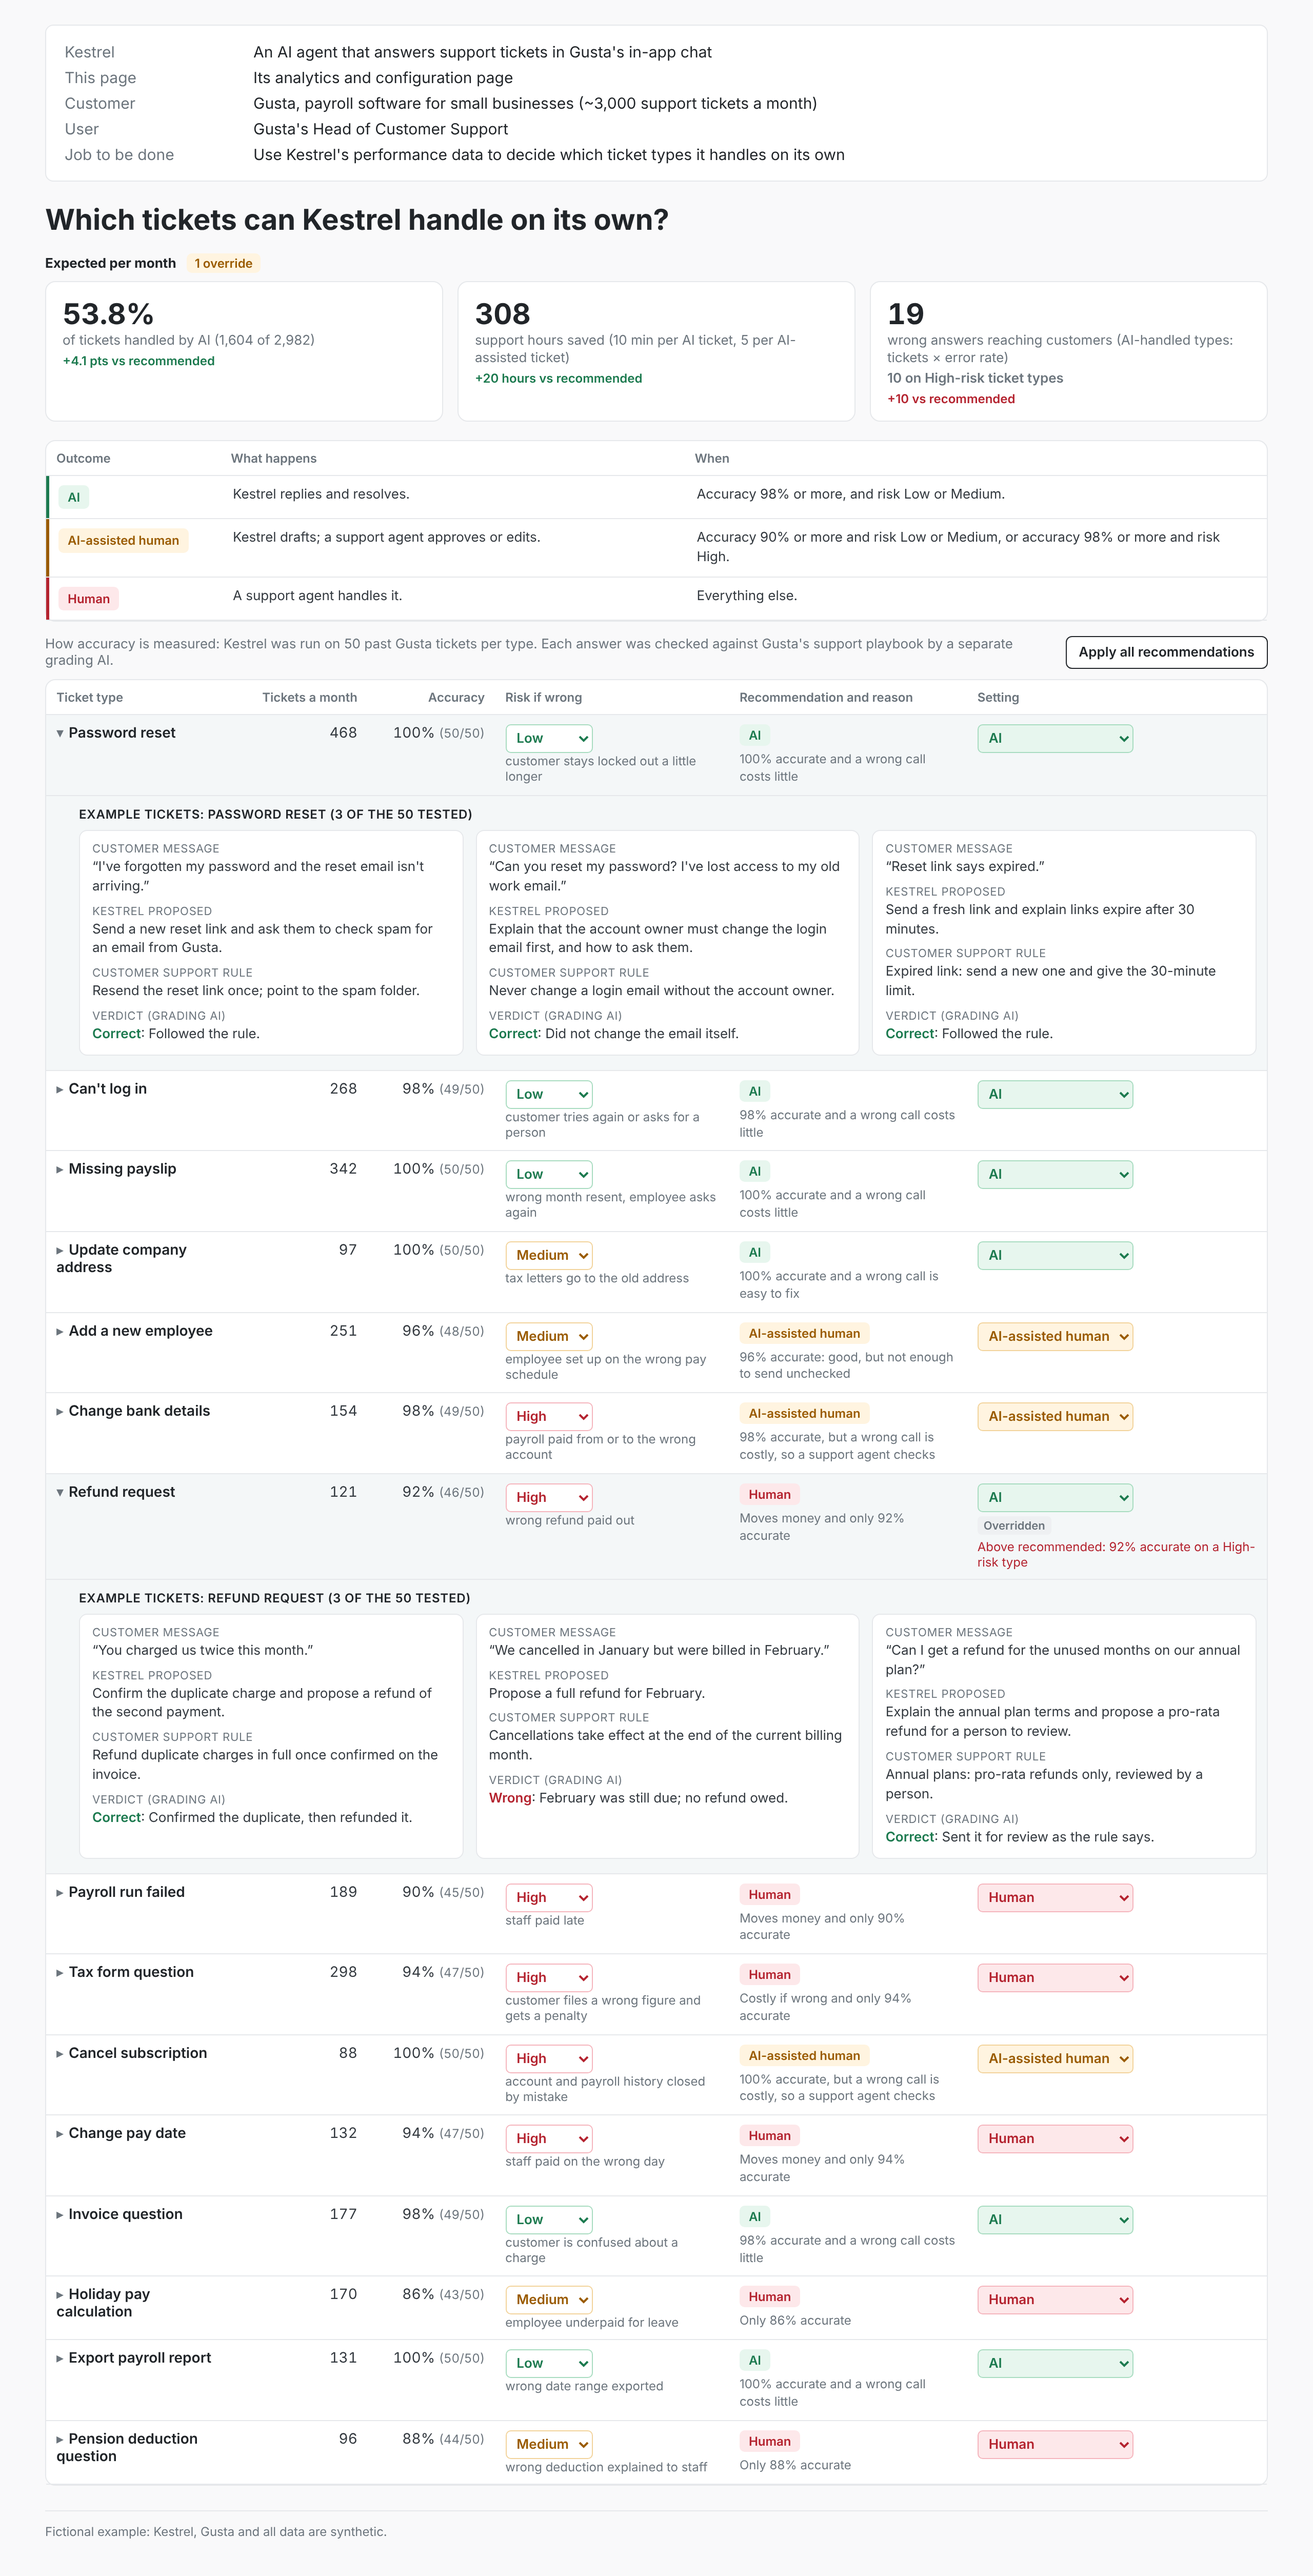
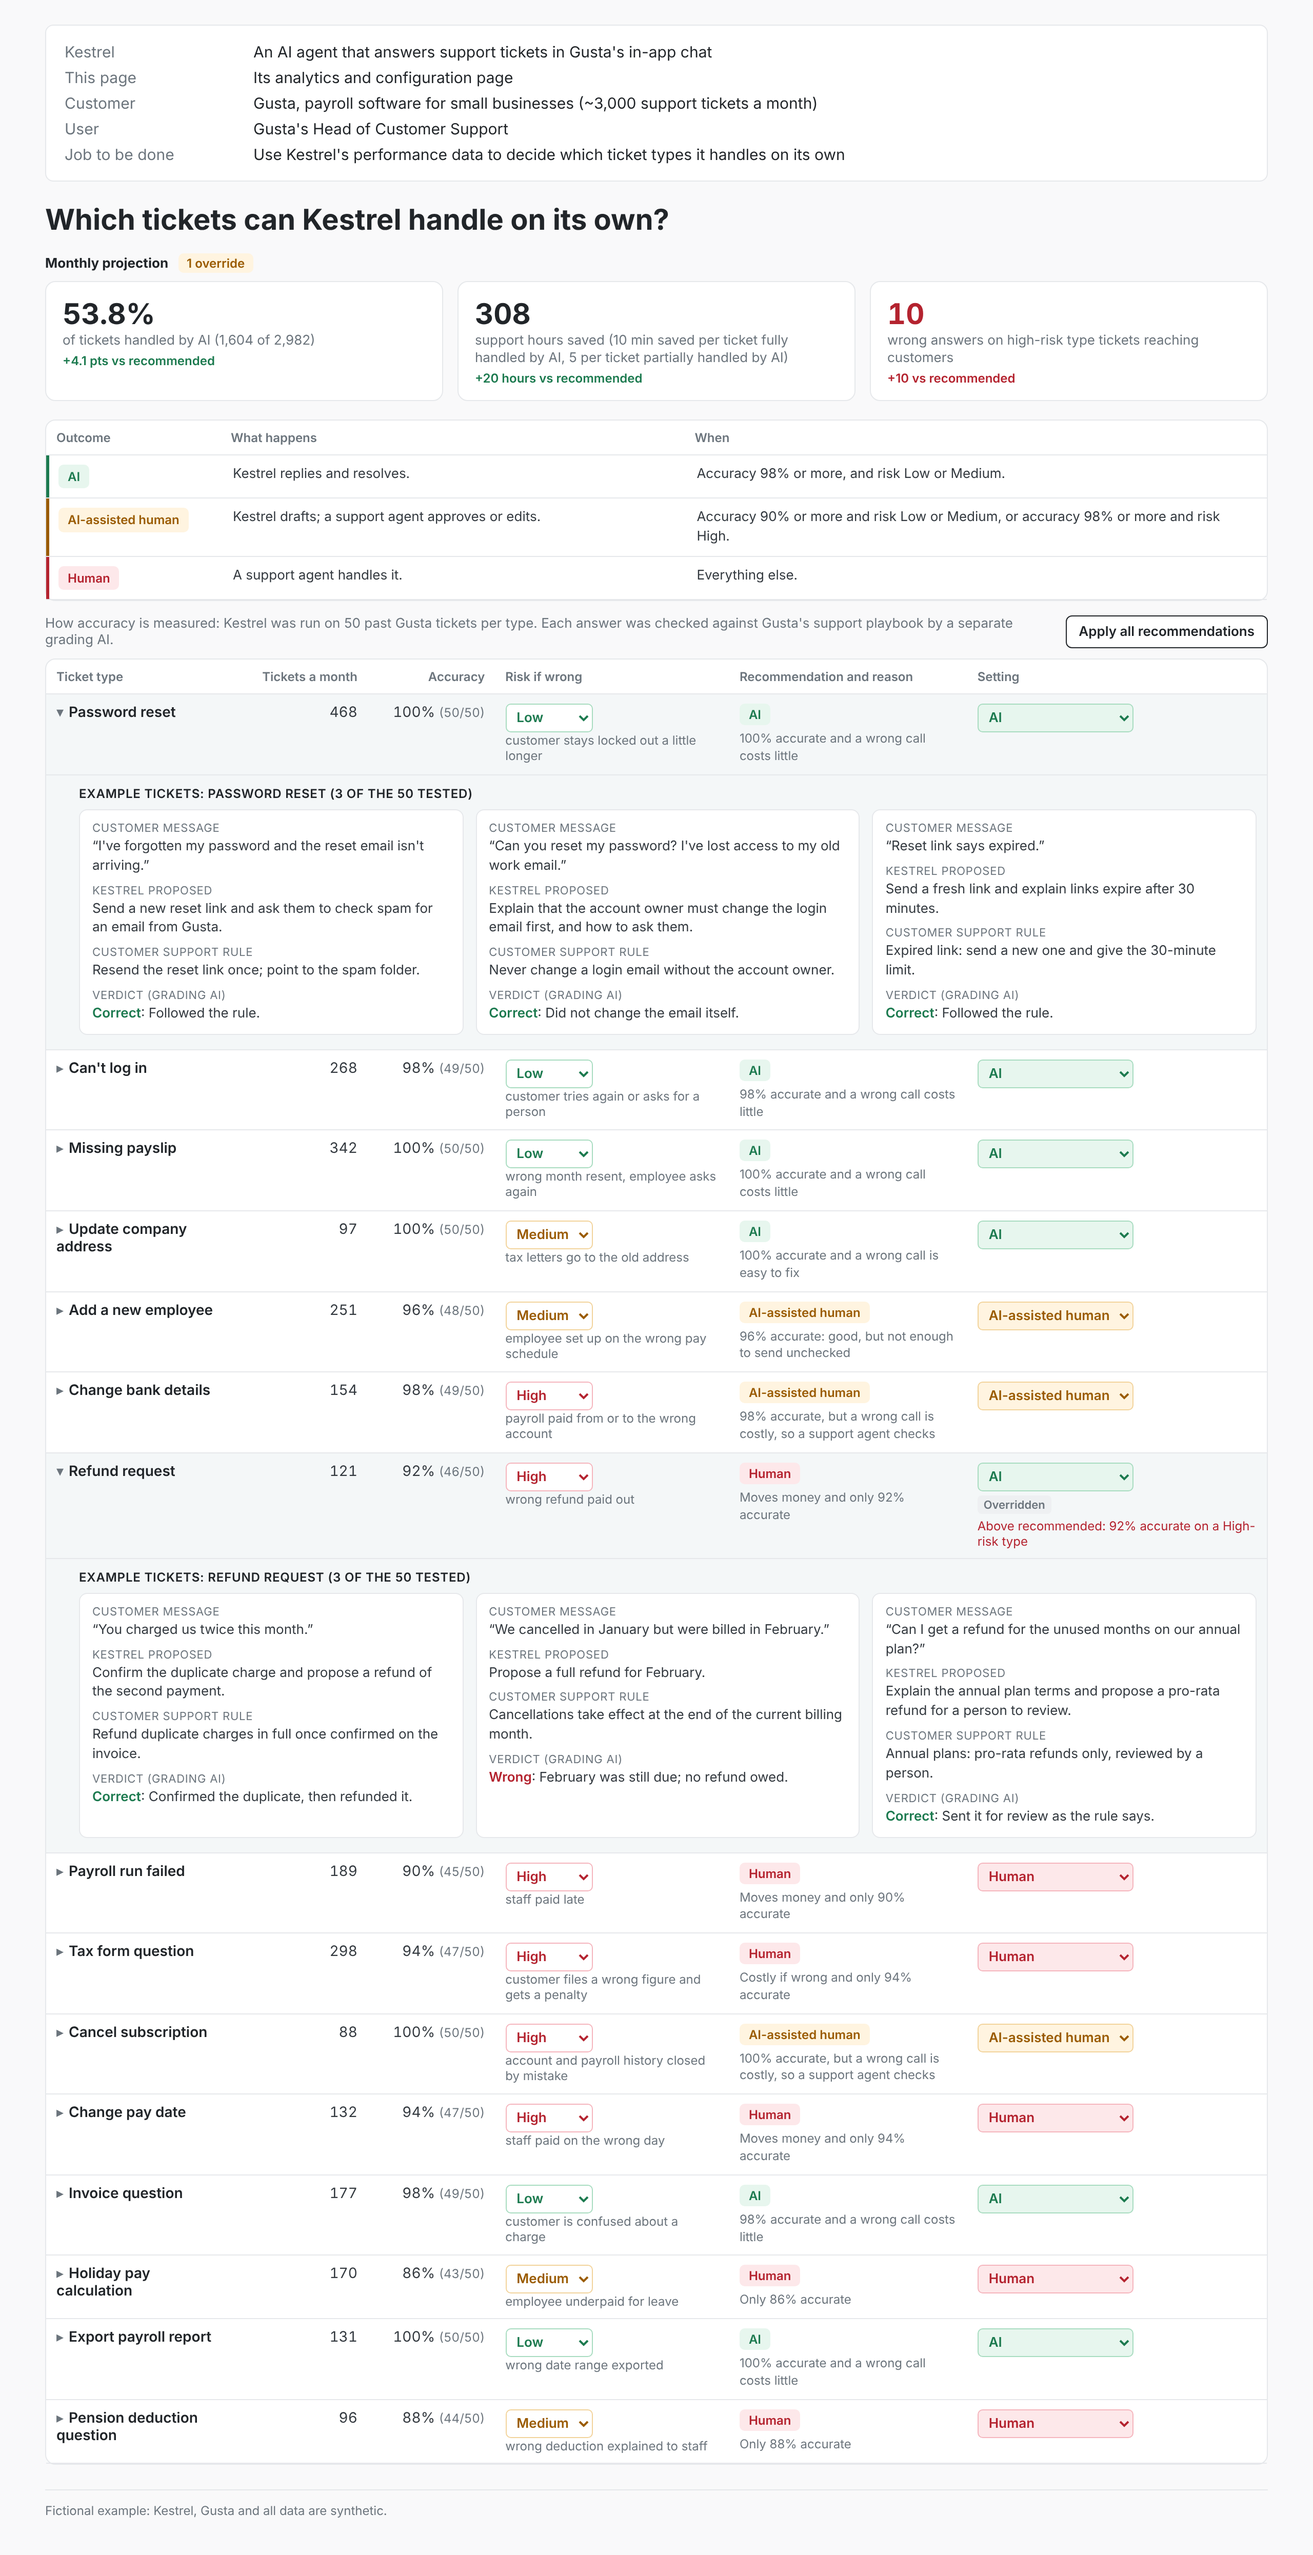
Monthly projection box: AI share, hours saved, high-risk wrong answers
Claude-Session: https://claude.ai/code/session_016JoguXTxkWcj5knaYbAtMZ

diff --git a/examples/kestrel/run/build/mvp.html b/examples/kestrel/run/build/mvp.html
@@ -15,7 +15,7 @@ h1{font-size:28px;color:var(--head);margin:0 0 16px}
 .state{font-size:12px;font-weight:600;padding:2px 8px;border-radius:5px}.state-rec{background:var(--ai-bg);color:var(--ai)}.state-over{background:var(--mix-bg);color:var(--mix)}
 .summary{display:grid;grid-template-columns:repeat(3,1fr);gap:14px;margin-bottom:18px}
 .delta{font-size:12px;font-weight:600;margin-top:4px}.d-up{color:var(--ai)}.d-bad{color:var(--hum)}.d-none{color:var(--mute);font-weight:400}
-.hi{display:block;font-size:13px;font-weight:600;margin-top:4px}.hi-ok{color:var(--ai)}.hi-bad{color:var(--hum)}
+.card b.hi-bad{color:var(--hum)}
 .card{background:#fff;border:1px solid var(--line);border-radius:10px;padding:14px 16px}
 .card b{display:block;font-size:28px;color:var(--head);font-variant-numeric:tabular-nums}
 .card span{color:var(--mute);font-size:13px}
@@ -118,12 +118,11 @@ function render(){
   const recSet = E.map(t => recommend(t, n)), r = summary(DE, recSet), overrides = settings.filter((m, i) => m !== recSet[i]).length;
   const delta = (now, base, unit, goodUp) => { const d = now - base; if (Math.abs(d) < 0.05) return '';
     const good = goodUp ? d > 0 : d < 0; return `<div class="delta ${good ? 'd-up' : 'd-bad'}">${d > 0 ? '+' : '−'}${unit(Math.abs(d))} vs recommended</div>`; };
-  document.getElementById('dashHead').innerHTML = `<b>Expected per month</b><span id="state" class="state ${overrides ? 'state-over">' + overrides + (overrides === 1 ? ' override' : ' overrides') : 'state-rec">Recommended settings'}</span>`;
+  document.getElementById('dashHead').innerHTML = `<b>Monthly projection</b><span id="state" class="state ${overrides ? 'state-over">' + overrides + (overrides === 1 ? ' override' : ' overrides') : 'state-rec">Recommended settings'}</span>`;
   document.getElementById('summary').innerHTML = `
     <div class="card"><b id="sumShare">${(s.aiShare * 100).toFixed(1)}%</b><span>of tickets handled by AI (${fmt(s.ai)} of ${fmt(s.all)})</span>${delta(s.aiShare * 100, r.aiShare * 100, v => v.toFixed(1) + ' pts', true)}</div>
-    <div class="card"><b id="sumHours">${fmt(s.hours)}</b><span>support hours saved (${D.minutes_ai} min per AI ticket, ${D.minutes_assisted} per AI-assisted ticket)</span>${delta(s.hours, r.hours, v => fmt(v) + ' hours', true)}</div>
-    <div class="card"><b id="sumWrong">${fmt(s.wrong)}</b><span>wrong answers reaching customers (AI-handled types: tickets × error rate)</span>
-      <span id="sumHigh" class="hi ${s.wrongHigh >= 0.5 ? 'hi-bad">' + fmt(s.wrongHigh) : 'hi-ok">0'} on High-risk ticket types</span>${delta(s.wrong, r.wrong, v => fmt(v), false)}</div>`;
+    <div class="card"><b id="sumHours">${fmt(s.hours)}</b><span>support hours saved (${D.minutes_ai} min saved per ticket fully handled by AI, ${D.minutes_assisted} per ticket partially handled by AI)</span>${delta(s.hours, r.hours, v => fmt(v) + ' hours', true)}</div>
+    <div class="card"><b id="sumHigh" class="${s.wrongHigh >= 0.5 ? 'hi-bad' : ''}">${fmt(s.wrongHigh)}</b><span>wrong answers on high-risk type tickets reaching customers</span>${delta(s.wrongHigh, r.wrongHigh, v => fmt(v), false)}</div>`;
   const rows = E.map((t, i) => {
     const rec = recommend(t, n), set = settings[i], isOpen = open.has(i), p = Math.round(accuracy(t, n) * 100), adj = t.risk !== D.types[i].risk;
     const over = set !== rec ? `<div><span class="tag">Overridden</span></div>` : '';

diff --git a/examples/kestrel/run/build/check_mvp.js b/examples/kestrel/run/build/check_mvp.js
@@ -12,8 +12,8 @@ const srv = http.createServer((q, r) => { const f = path.join(root, decodeURICom
   t('no top bar', !(await p.$('#topbar')));
   const hd = await txt('#header'); t('header: Kestrel first, then this page', hd.indexOf('An AI agent that answers support tickets') < hd.indexOf('Its analytics and configuration page') && hd.includes('Its analytics and configuration page'));
   t('headline', (await txt('#headline')) === 'Which tickets can Kestrel handle on its own?');
-  t('summary: 49.7%, 288 hours, 9 wrong answers', (await txt('#sumShare')) === '49.7%' && (await txt('#sumHours')) === '288' && (await txt('#sumWrong')) === '9');
-  t('dashboard: recommended settings, 0 on High-risk types', (await txt('#state')) === 'Recommended settings' && (await txt('#sumHigh')) === '0 on High-risk ticket types');
+  t('monthly projection: 49.7%, 288 hours, 0 high-risk wrong answers', (await txt('.dash-head b')) === 'Monthly projection' && (await txt('#sumShare')) === '49.7%' && (await txt('#sumHours')) === '288' && (await txt('#sumHigh')) === '0');
+  t('dashboard: recommended settings', (await txt('#state')) === 'Recommended settings');
   t('rules before the table', await p.evaluate(() => !!(document.querySelector('#rules').compareDocumentPosition(document.querySelector('#types')) & Node.DOCUMENT_POSITION_FOLLOWING)));
   t('15 rows, Password reset expanded by default', (await p.$$('tr.row')).length === 15 && (await p.$$('tr.detail')).length === 1 && (await txt('tr.row.open')).includes('Password reset'));
   const det = await txt('tr.detail');
@@ -24,8 +24,8 @@ const srv = http.createServer((q, r) => { const f = path.join(root, decodeURICom
   await p.selectOption('select[data-i="6"]', 'resolve');
   const row = await txt('tr.row[data-i="6"]');
   t('override shows Overridden and the warning', row.includes('Overridden') && row.includes('Above recommended: 92% accurate on a High-risk type'));
-  t('summary updates: 53.8%, 19 wrong answers', (await txt('#sumShare')) === '53.8%' && (await txt('#sumWrong')) === '19');
-  t('dashboard updates: 1 override, 10 on High-risk types, deltas shown', (await txt('#state')) === '1 override' && (await txt('#sumHigh')) === '10 on High-risk ticket types' && (await txt('#summary')).includes('+10 vs recommended'));
+  t('summary updates: 53.8%, 10 high-risk wrong answers', (await txt('#sumShare')) === '53.8%' && (await txt('#sumHigh')) === '10');
+  t('dashboard updates: 1 override, 10 on High-risk types, deltas shown', (await txt('#state')) === '1 override' && (await txt('#sumHigh')) === '10' && (await txt('#summary')).includes('+10 vs recommended'));
   await p.selectOption('select[data-i="0"]', 'human');
   const row0 = await txt('tr.row[data-i="0"]');
   t('lowering autonomy: Overridden, no warning', row0.includes('Overridden') && !row0.includes('Above recommended'));

diff --git a/README.md b/README.md
@@ -17,7 +17,7 @@ Kestrel's analytics and configuration page (not the agent itself), for Gusta's H
 
 | Part | What it shows |
 |---|---|
-| Three numbers | **49.7%** of tickets handled by AI (1,483 of 2,982 a month) · **288** support hours saved a month (10 minutes per AI ticket, 5 per AI-assisted ticket) · **9** wrong answers reaching customers a month, **0** on High-risk ticket types |
+| Monthly projection | **49.7%** of tickets handled by AI (1,483 of 2,982 a month) · **288** support hours saved a month (10 minutes per ticket fully handled by AI, 5 per ticket partially handled by AI) · **0** wrong answers on high-risk type tickets reaching customers a month |
 | Decision rules | **AI** (98%+ accurate, risk Low or Medium) · **AI-assisted human** (90%+ and risk Low or Medium, or 98%+ and risk High) · **Human** (everything else) |
 | The table | 15 ticket types in in-app chat: tickets a month, accuracy, risk if wrong, Kestrel's recommendation with its reason, and a setting Gusta controls |
 | Overrides | Risk and setting are both adjustable. Changing a risk re-runs the recommendation ("Adjusted by user"); changing a setting shows "Overridden" and warns when it gives Kestrel more autonomy than recommended. The three numbers update live, with the change against the recommendation |
